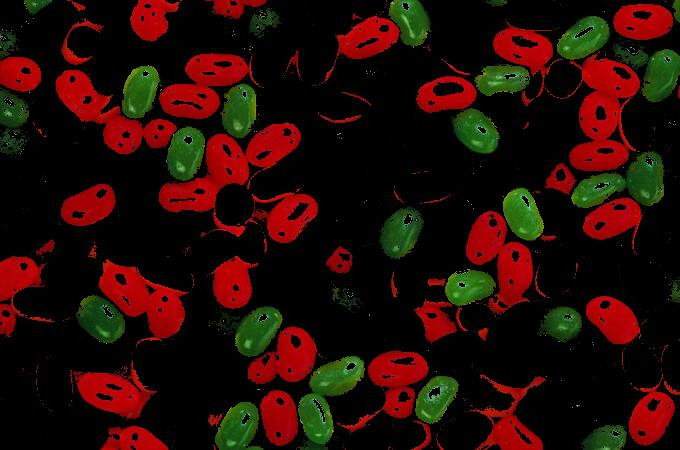
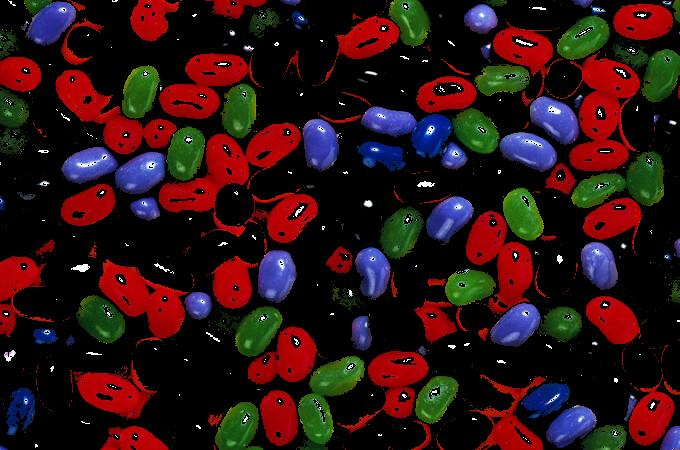
Version 03 of bean counter

diff --git a/bean_counter.py b/bean_counter.py
@@ -7,6 +7,8 @@
 # Report on the red percentage
 # Version 02 
 # Counts the green pixels and reports %
+# Version 03
+# Recognise more colours 
 
 
 from PIL import Image
@@ -17,7 +19,8 @@ jelly_bean_img = Image.open("./Images/Jelly Beans.jpg")
 
 red_pixels = []
 green_pixels = []
-yellow_pixels = []
+blue_pixels = []
+white_pixels = []
 total_pixels = 0
 
 img_width = jelly_bean_img.width
@@ -30,10 +33,14 @@ for y in range(img_height):
         current_pixel = jelly_bean_img.getpixel((x, y))
 
         # if that pixel is red, store the location(?)
-        if colour_helper.pixel_to_string(current_pixel) == "red":
+        if colour_helper.pixel_to_string(current_pixel) == "white":
+            white_pixels.append((x, y))
+        elif colour_helper.pixel_to_string(current_pixel) == "red":
             red_pixels.append((x, y))
         elif colour_helper.pixel_to_string(current_pixel) == "green":
             green_pixels.append((x, y))
+        elif colour_helper.pixel_to_string(current_pixel) == "blue":
+            blue_pixels.append((x, y))
         else:
             jelly_bean_img.putpixel((x, y), (0, 0, 0))
 
@@ -46,12 +53,28 @@ for location in red_pixels:
 red_pixel_map.save("./Images/red_pixelmap.jpg")
 red_pixel_map.close()
 
+green_pixel_map = Image.new("RGB", (img_width, img_height))
+for location in green_pixels:
+    green_pixel_map.putpixel(location, colour_helper.GREEN_PIXEL)
+
+green_pixel_map.save("./Images/green_pixelmap.jpg")
+green_pixel_map.close()
+
+blue_pixel_map = Image.new("RGB", (img_width, img_height))
+for location in blue_pixels:
+    blue_pixel_map.putpixel(location, colour_helper.BLUE_PIXEL)
+
+blue_pixel_map.save("./Images/blue_pixelmap.jpg")
+blue_pixel_map.close()
+
 # Count every pixel in the list
 # get the percent
-red_percent = round(len(red_pixels) / (total_pixels) *100, 2)
-green_percent = round(len(green_pixels) / (total_pixels) *100, 2)
+red_percent = round(len(red_pixels) / total_pixels * 100, 2)
+green_percent = round(len(green_pixels) / total_pixels * 100, 2)
+blue_percent = round(len(blue_pixels)/ total_pixels * 100, 2)
 
 print(f"There is {red_percent}% of red beans.")
 print(f"There is {green_percent}% of green beans.")
+print(f"There is {blue_percent}% of blue beans.")
 
 jelly_bean_img.close()

diff --git a/colour_helper.py b/colour_helper.py
@@ -28,11 +28,17 @@ def pixel_to_string(pixel:tuple) -> str:
     """
     r, g, b = pixel
 
+    if r > 240 and g > 240 and b > 240:
+        return "white"
+
     if (g > 120 and r < 150 and b < 150) or ((r + b) < g):
         return "green"
     
     if r > 125 and g < 30 and b < 30:
         return "red"
+    
+    if (r < 100 and g < 100 and b > 120) or (b > g and b > r and b + g + r > 120):
+        return "blue"
 
 def is_light(pixel: tuple) -> bool:
     """Determines if a pixel is light or not. 
